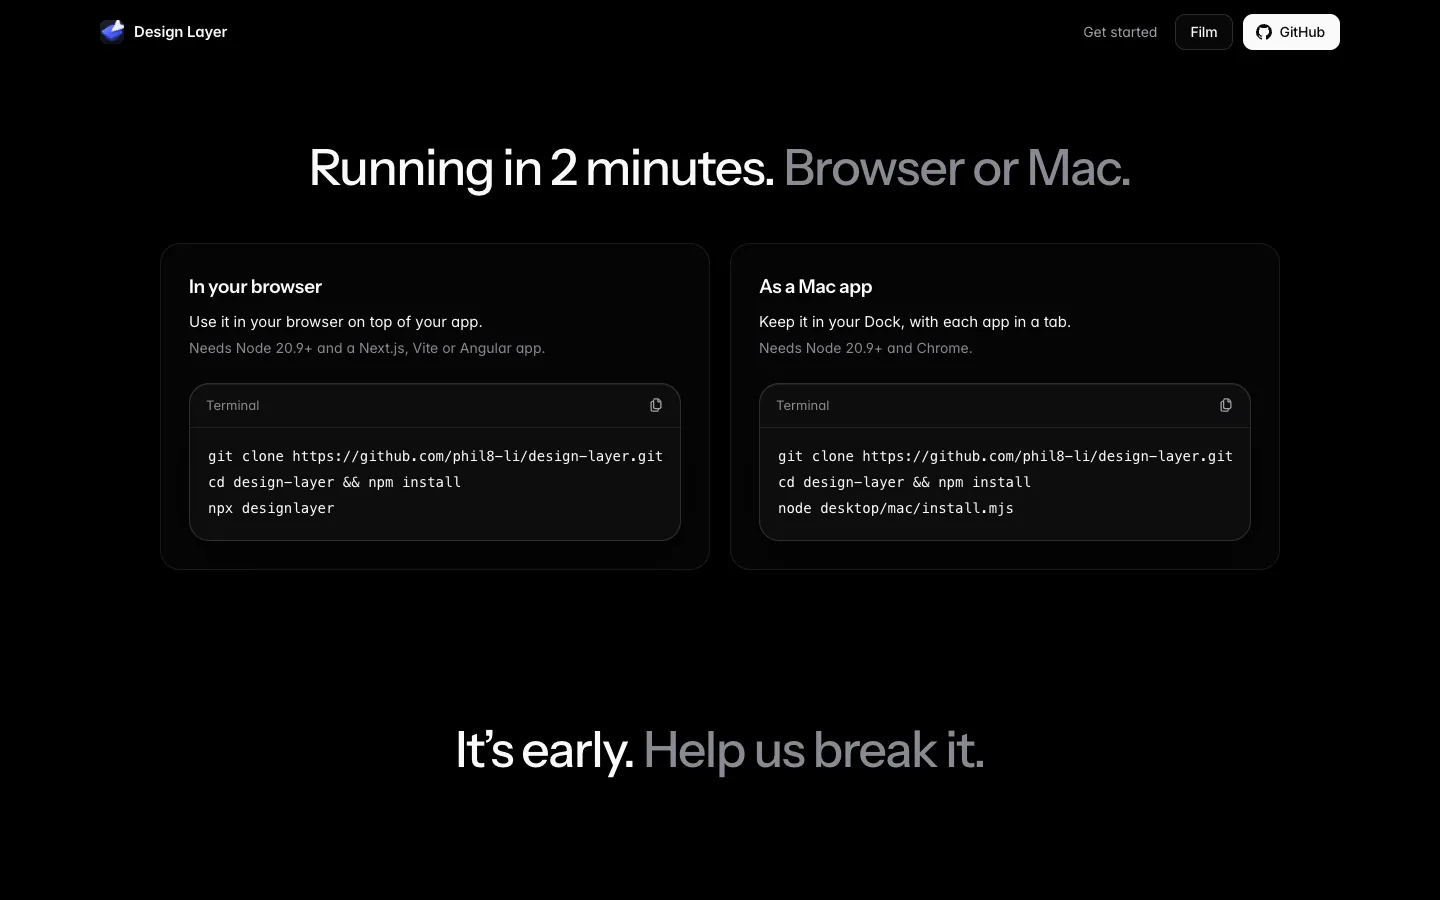
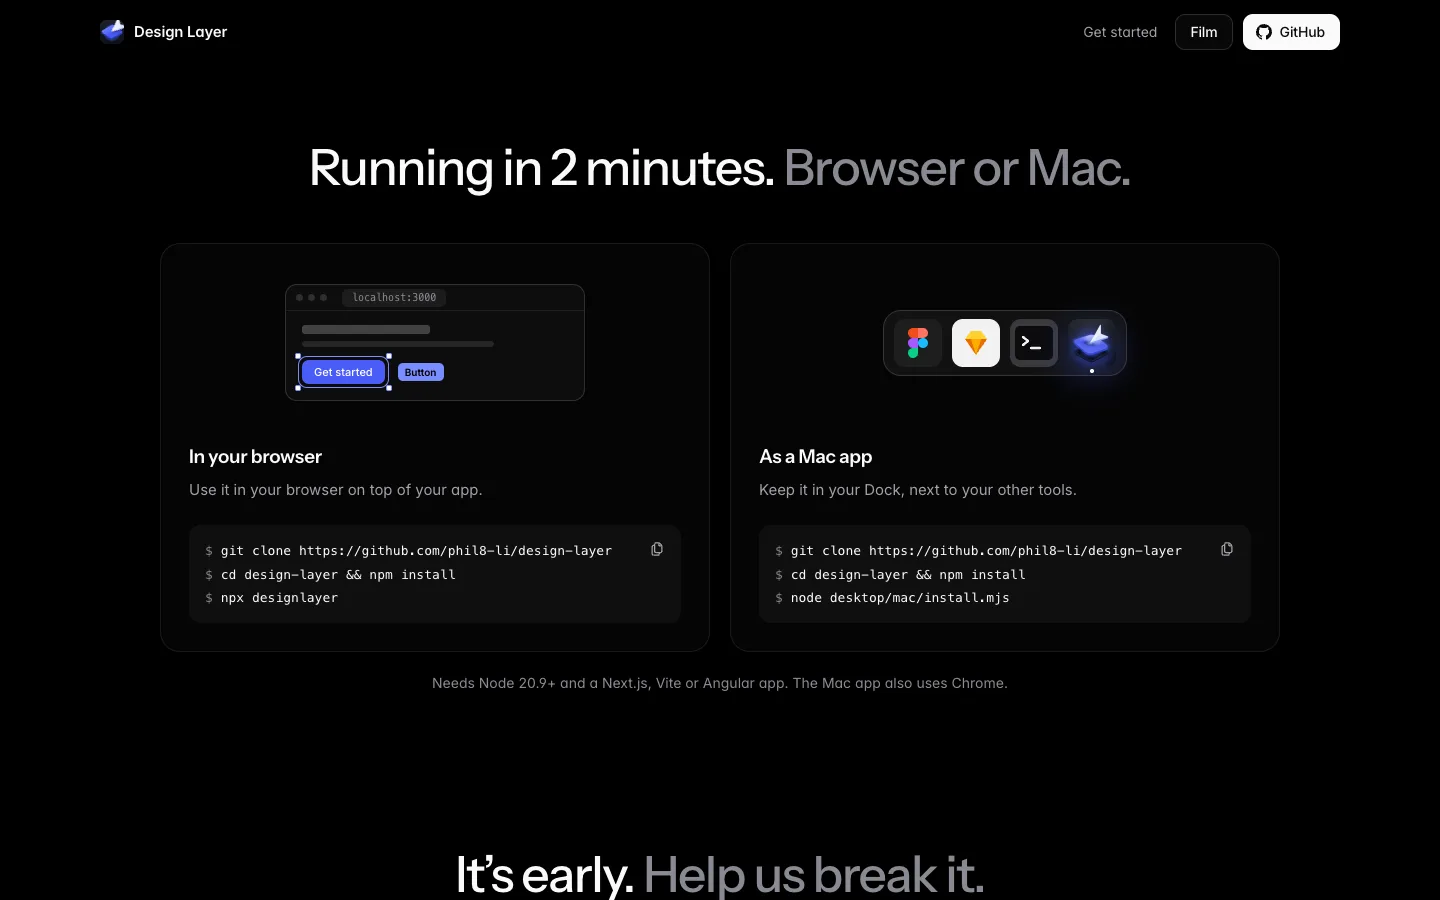
Get started reads as two simple cards: a picture, a title, one line and the commands
The terminal boxes, each with a title bar, a "Terminal" label and a heavy
frame, competed with the scenes above them, and every card carried two
lines of fine print. The commands now sit on a quiet panel with the copy
button in its corner, and the requirements are one line under both cards.

The Dock in the Mac card shows Design Layer beside Figma, Sketch and
Terminal, so it reads as one of a designer's tools. landing/DESIGN.md
records that exception to the no-vendor-names rule.

AI-assisted (CloudCode).

diff --git a/landing/index.html b/landing/index.html
@@ -332,42 +332,35 @@ Loading…</code><code data-agent-close hidden></code></pre>
             </div>
             <h3 id="path-browser">In your browser</h3>
             <p class="path-lead">Use it in your browser on top of your app.</p>
-            <p class="path-req">Needs Node 20.9+ and a Next.js, Vite or Angular app.</p>
-            <div class="install-card" data-copy-root>
-              <div class="install-bar">
-                <span>Terminal</span>
-                <button class="copy" type="button" data-copy aria-label="Copy the commands to run it in your browser">
-                  <svg class="icon icon-copy" width="16" height="16" aria-hidden="true"><use href="assets/icons.svg#i-Copy"/></svg>
-                  <svg class="icon icon-check" width="16" height="16" aria-hidden="true"><use href="assets/icons.svg#i-Check"/></svg>
-                </button>
-              </div>
-<pre class="install-body is-wrap"><code><span class="t-cmd">git clone https://github.com/phil8-li/design-layer</span><span class="t-cmd">cd design-layer &amp;&amp; npm install</span><span class="t-cmd">npx designlayer</span></code></pre>
+            <div class="path-cmd" data-copy-root>
+<pre><code><span class="t-cmd">git clone https://github.com/phil8-li/design-layer</span><span class="t-cmd">cd design-layer &amp;&amp; npm install</span><span class="t-cmd">npx designlayer</span></code></pre>
+              <button class="copy" type="button" data-copy aria-label="Copy the commands to run it in your browser">
+                <svg class="icon icon-copy" width="16" height="16" aria-hidden="true"><use href="assets/icons.svg#i-Copy"/></svg>
+                <svg class="icon icon-check" width="16" height="16" aria-hidden="true"><use href="assets/icons.svg#i-Check"/></svg>
+              </button>
             </div>
           </section>
           <section class="path" aria-labelledby="path-mac">
             <div class="path-scene scene-mac" data-arrive aria-hidden="true">
               <div class="mini-dock">
-                <span class="dock-tile"></span>
-                <span class="dock-tile"></span>
-                <span class="dock-app"><img src="assets/brand/icon-192.png" width="48" height="48" loading="lazy" decoding="async" alt=""><i class="dock-dot"></i></span>
-                <span class="dock-tile"></span>
+                <img class="dock-icon" src="assets/dock/figma.svg" width="48" height="48" alt="">
+                <img class="dock-icon" src="assets/dock/sketch.svg" width="48" height="48" alt="">
+                <img class="dock-icon" src="assets/dock/terminal.svg" width="48" height="48" alt="">
+                <span class="dock-icon dock-app"><img src="assets/brand/icon-192.png" width="48" height="48" alt=""><i class="dock-dot"></i></span>
               </div>
             </div>
             <h3 id="path-mac">As a Mac app</h3>
-            <p class="path-lead">Keep it in your Dock, with each app in a tab.</p>
-            <p class="path-req">Needs Node 20.9+ and Chrome.</p>
-            <div class="install-card" data-copy-root>
-              <div class="install-bar">
-                <span>Terminal</span>
-                <button class="copy" type="button" data-copy aria-label="Copy the commands to install the Mac app">
-                  <svg class="icon icon-copy" width="16" height="16" aria-hidden="true"><use href="assets/icons.svg#i-Copy"/></svg>
-                  <svg class="icon icon-check" width="16" height="16" aria-hidden="true"><use href="assets/icons.svg#i-Check"/></svg>
-                </button>
-              </div>
-<pre class="install-body is-wrap"><code><span class="t-cmd">git clone https://github.com/phil8-li/design-layer</span><span class="t-cmd">cd design-layer &amp;&amp; npm install</span><span class="t-cmd">node desktop/mac/install.mjs</span></code></pre>
+            <p class="path-lead">Keep it in your Dock, next to your other tools.</p>
+            <div class="path-cmd" data-copy-root>
+<pre><code><span class="t-cmd">git clone https://github.com/phil8-li/design-layer</span><span class="t-cmd">cd design-layer &amp;&amp; npm install</span><span class="t-cmd">node desktop/mac/install.mjs</span></code></pre>
+              <button class="copy" type="button" data-copy aria-label="Copy the commands to install the Mac app">
+                <svg class="icon icon-copy" width="16" height="16" aria-hidden="true"><use href="assets/icons.svg#i-Copy"/></svg>
+                <svg class="icon icon-check" width="16" height="16" aria-hidden="true"><use href="assets/icons.svg#i-Check"/></svg>
+              </button>
             </div>
           </section>
         </div>
+        <p class="paths-note">Needs Node 20.9+ and a Next.js, Vite or Angular app. The Mac app also uses Chrome.</p>
       </div>
     </section>
 

diff --git a/landing/styles.css b/landing/styles.css
@@ -1323,10 +1323,9 @@ h2 {
   }
 }
 
-/* ---------- Terminal and install cards ---------- */
+/* ---------- Terminal ---------- */
 
-.terminal,
-.install-card {
+.terminal {
   overflow: hidden;
   border: 1px solid var(--line-strong);
   border-radius: var(--radius-frame);
@@ -1336,8 +1335,7 @@ h2 {
     0 24px 80px -24px rgb(0 0 0 / 0.7);
 }
 
-.terminal-bar,
-.install-bar {
+.terminal-bar {
   display: flex;
   align-items: center;
   gap: 12px;
@@ -1348,8 +1346,7 @@ h2 {
   font-size: 13px;
 }
 
-.terminal-body,
-.install-body {
+.terminal-body {
   overflow: auto;
   padding: 14px 0;
   color: var(--text-2);
@@ -1359,8 +1356,7 @@ h2 {
   scrollbar-width: thin;
 }
 
-.terminal-body code,
-.install-body code {
+.terminal-body code {
   display: block;
   min-width: max-content;
 }
@@ -1369,8 +1365,7 @@ h2 {
   display: none;
 }
 
-.terminal-body,
-.install-body {
+.terminal-body {
   padding-inline: 18px;
   white-space: pre;
 }
@@ -1390,8 +1385,6 @@ h2 {
 .t-ok {
   color: var(--add);
 }
-
-/* ---------- Terminal ---------- */
 
 .terminal {
   display: flex;
@@ -1542,10 +1535,6 @@ h2 {
   letter-spacing: -0.015em;
 }
 
-.path .install-card {
-  margin-top: auto;
-}
-
 /* One shape for both cards; the terminals sit at the bottom and line up. */
 .path-scene {
   display: grid;
@@ -1688,11 +1677,11 @@ h2 {
   backdrop-filter: var(--frost);
 }
 
-.dock-tile {
+.dock-icon,
+.dock-app img {
+  display: block;
   width: 48px;
   height: 48px;
-  border-radius: 12px;
-  background: linear-gradient(#3a3a3e, #232326);
 }
 
 .dock-app {
@@ -1700,7 +1689,6 @@ h2 {
 }
 
 .dock-app img {
-  display: block;
   filter: drop-shadow(0 8px 16px rgb(74 93 249 / 0.35));
 }
 
@@ -1736,15 +1724,28 @@ h2 {
   85% { translate: 0 0; }
 }
 
-/* Wrap, never scroll sideways; a wrapped line hangs clear of the prompt. */
-.install-body.is-wrap {
-  overflow-x: hidden;
+/* The commands sit on a quiet panel at the bottom, so both cards line up.
+   They wrap, never scroll; a wrapped line hangs clear of the prompt. */
+.path-cmd {
+  position: relative;
+  margin-top: auto;
+  padding: 14px 48px 14px 16px;
+  border-radius: 12px;
+  background: rgb(255 255 255 / 0.04);
+  color: var(--text);
+  font: 13px/1.8 var(--mono);
+}
+
+.path-cmd pre {
+  font: inherit;
   white-space: pre-wrap;
   overflow-wrap: anywhere;
 }
 
-.install-body.is-wrap code {
-  min-width: 0;
+.path-cmd .copy {
+  position: absolute;
+  top: 6px;
+  right: 6px;
 }
 
 .t-cmd {
@@ -1755,20 +1756,21 @@ h2 {
 
 .t-cmd::before {
   content: "$ ";
-  color: var(--accent-text);
+  color: var(--text-3);
 }
+
 .path-lead {
-  margin-top: 8px;
-  color: var(--text);
+  margin: 6px 0 24px;
+  color: var(--text-2);
   font-size: 15px;
   line-height: 1.5;
 }
 
-.path-req {
-  margin: 4px 0 24px;
+.paths-note {
+  margin-top: 20px;
   color: var(--text-3);
   font-size: 14px;
-  line-height: 1.55;
+  text-align: center;
 }
 
 @media (max-width: 860px) {
@@ -1781,17 +1783,6 @@ h2 {
   .path {
     padding: 20px;
   }
-}
-
-.install-bar {
-  justify-content: space-between;
-}
-
-.install-body {
-  padding-block: 16px 18px;
-  color: var(--text);
-  font-size: 14px;
-  line-height: 1.85;
 }
 
 /* ---------- Contribute ---------- */

diff --git a/landing/DESIGN.md b/landing/DESIGN.md
@@ -31,4 +31,4 @@ who set it. A newer statement replaces the older line.
 
 ## Copy
 
-- Examples on the page are generic: no product names from other vendors (no "Storybook") and no employer- or company-internal terms; say "design system library" and use example domains such as acme.com. Scope: this folder. Source: Phil, 2026-10-05.
+- Examples on the page are generic: no product names from other vendors (no "Storybook") and no employer- or company-internal terms; say "design system library" and use example domains such as acme.com. Scope: this folder. Source: Phil, 2026-10-05. One exception: the get-started Dock shows the Figma and Sketch app icons (no names in text) beside Design Layer and Terminal, to place it among a designer's tools. Scope: index.html `.scene-mac`, assets/dock/. Source: Phil, 2026-10-07.
